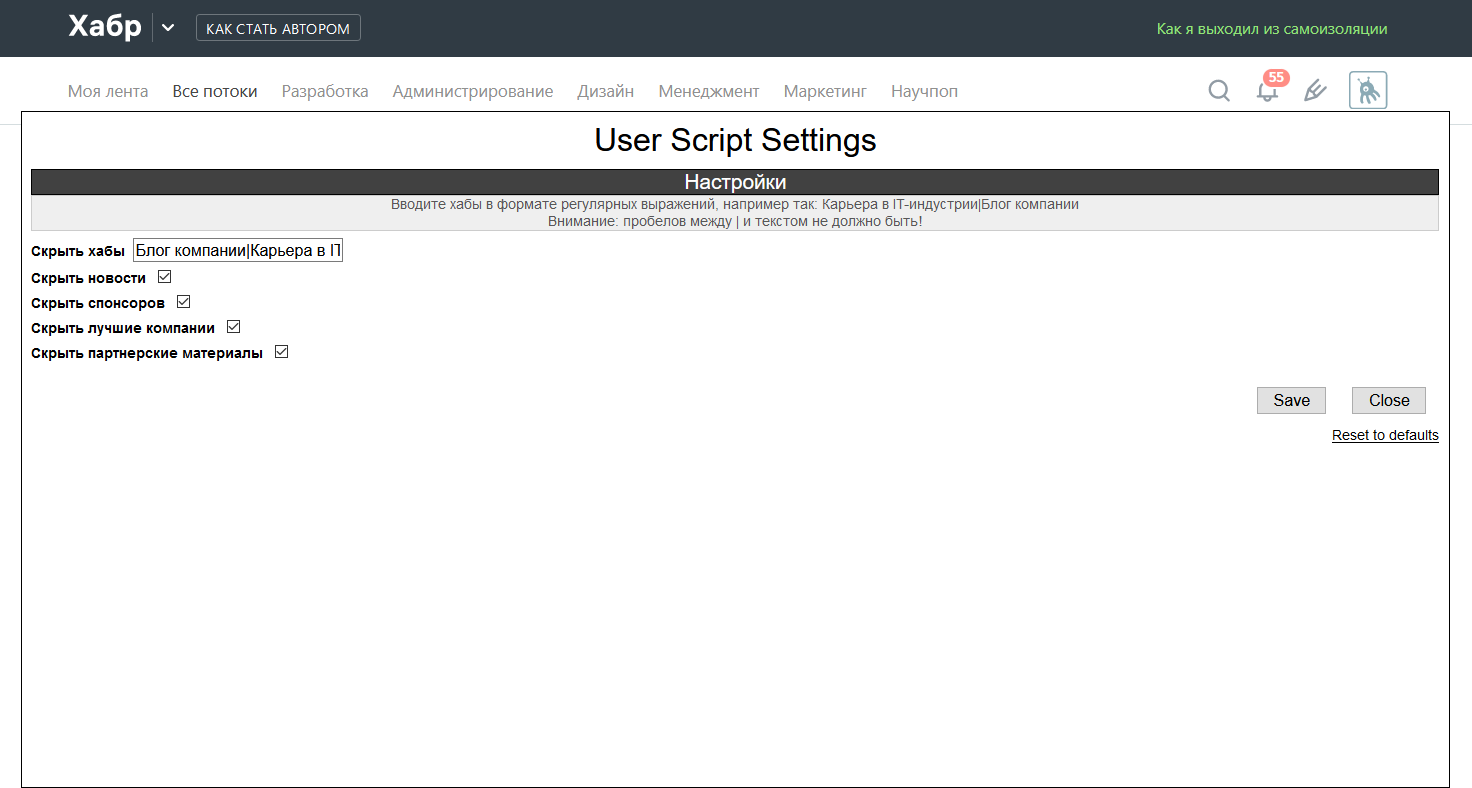
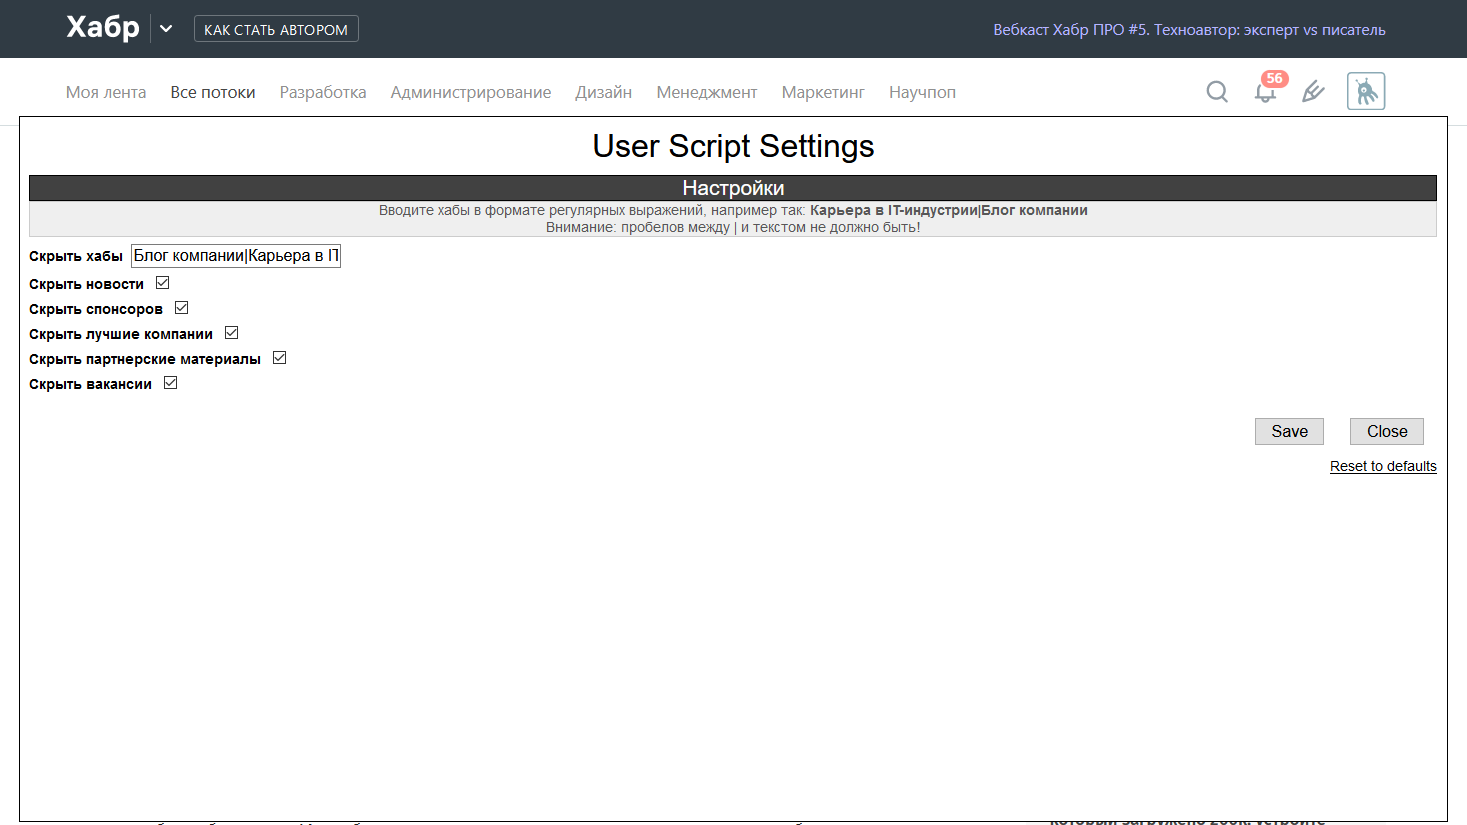
New version
Добавил пункт "Скрыть вакансии", улучшил код

diff --git a/HabrHider.user.js b/HabrHider.user.js
@@ -1,7 +1,7 @@
 // ==UserScript==
 // @name         HabrHider
 // @namespace    http://vitka-k.ru
-// @version      0.2.1
+// @version      0.2.2
 // @description  Скрывайте посты от неугодных вам хабов и блогов на главной, новости, партнерские посты и спонсорские материалы!
 // @author       Viktor Karpov <vitka-k.ru>
 // @copyright    2020, Viktor Karpov
@@ -36,7 +36,7 @@ GM_config.init(
                         'label': 'Скрыть хабы',
                         'title': 'Настройки',
                         'section': ['Настройки',
-                            'Вводите хабы в формате регулярных выражений, например так: Карьера в IT-индустрии|Блог компании <br>Внимание: пробелов между | и текстом не должно быть!'],
+                            'Вводите хабы в формате регулярных выражений, например так: <b>Карьера в IT-индустрии|Блог компании</b> <br>Внимание: пробелов между | и текстом не должно быть!'],
                         'type': 'text',
                         'default': ''
                     },
@@ -63,6 +63,12 @@ GM_config.init(
                         'label': 'Скрыть партнерские материалы',
                         'type': 'checkbox',
                         'default': false
+                    },
+                'hide_block_vacancies':
+                    {
+                        'label': 'Скрыть вакансии',
+                        'type': 'checkbox',
+                        'default': false
                     }
             }
     });
@@ -73,6 +79,7 @@ let hide_news = GM_config.get('hide_news');
 let hide_sponsors = GM_config.get('hide_sponsors');
 let hide_best_companies = GM_config.get('hide_best_companies');
 let hide_partner_materials = GM_config.get('hide_partner_materials');
+let hide_block_vacancies = GM_config.get('hide_block_vacancies');
 
 (function() {
     'use strict';
@@ -95,16 +102,20 @@ let hide_partner_materials = GM_config.get('hide_partner_materials');
         news_el.style.display = "none";
     }
     if (hide_sponsors === true){
-        let news_el = document.querySelector("div.default-block_sidebar:nth-child(1)");
-        news_el.style.display = "none";
+        let sponsors_el = document.querySelector("div.default-block_sidebar:nth-child(1)");
+        sponsors_el.style.display = "none";
     }
     if (hide_best_companies === true){
-        let news_el = document.querySelector("#companies_rating");
-        news_el.style.display = "none";
+        let companies_el = document.querySelector("#companies_rating");
+        companies_el.style.display = "none";
     }
     if (hide_partner_materials === true){
-        let news_el = document.querySelector("li.content-list__item_post:nth-child(6)");
-        news_el.style.display = "none";
+        let partner_el = document.querySelector("li.content-list__item_post:nth-child(6)");
+        partner_el.style.display = "none";
+    }
+    if (hide_block_vacancies === true){
+        let vacancies_el = document.querySelector(".promo-block_vacancies");
+        vacancies_el.parentElement.style.display = "none";
     }
 
 })();
